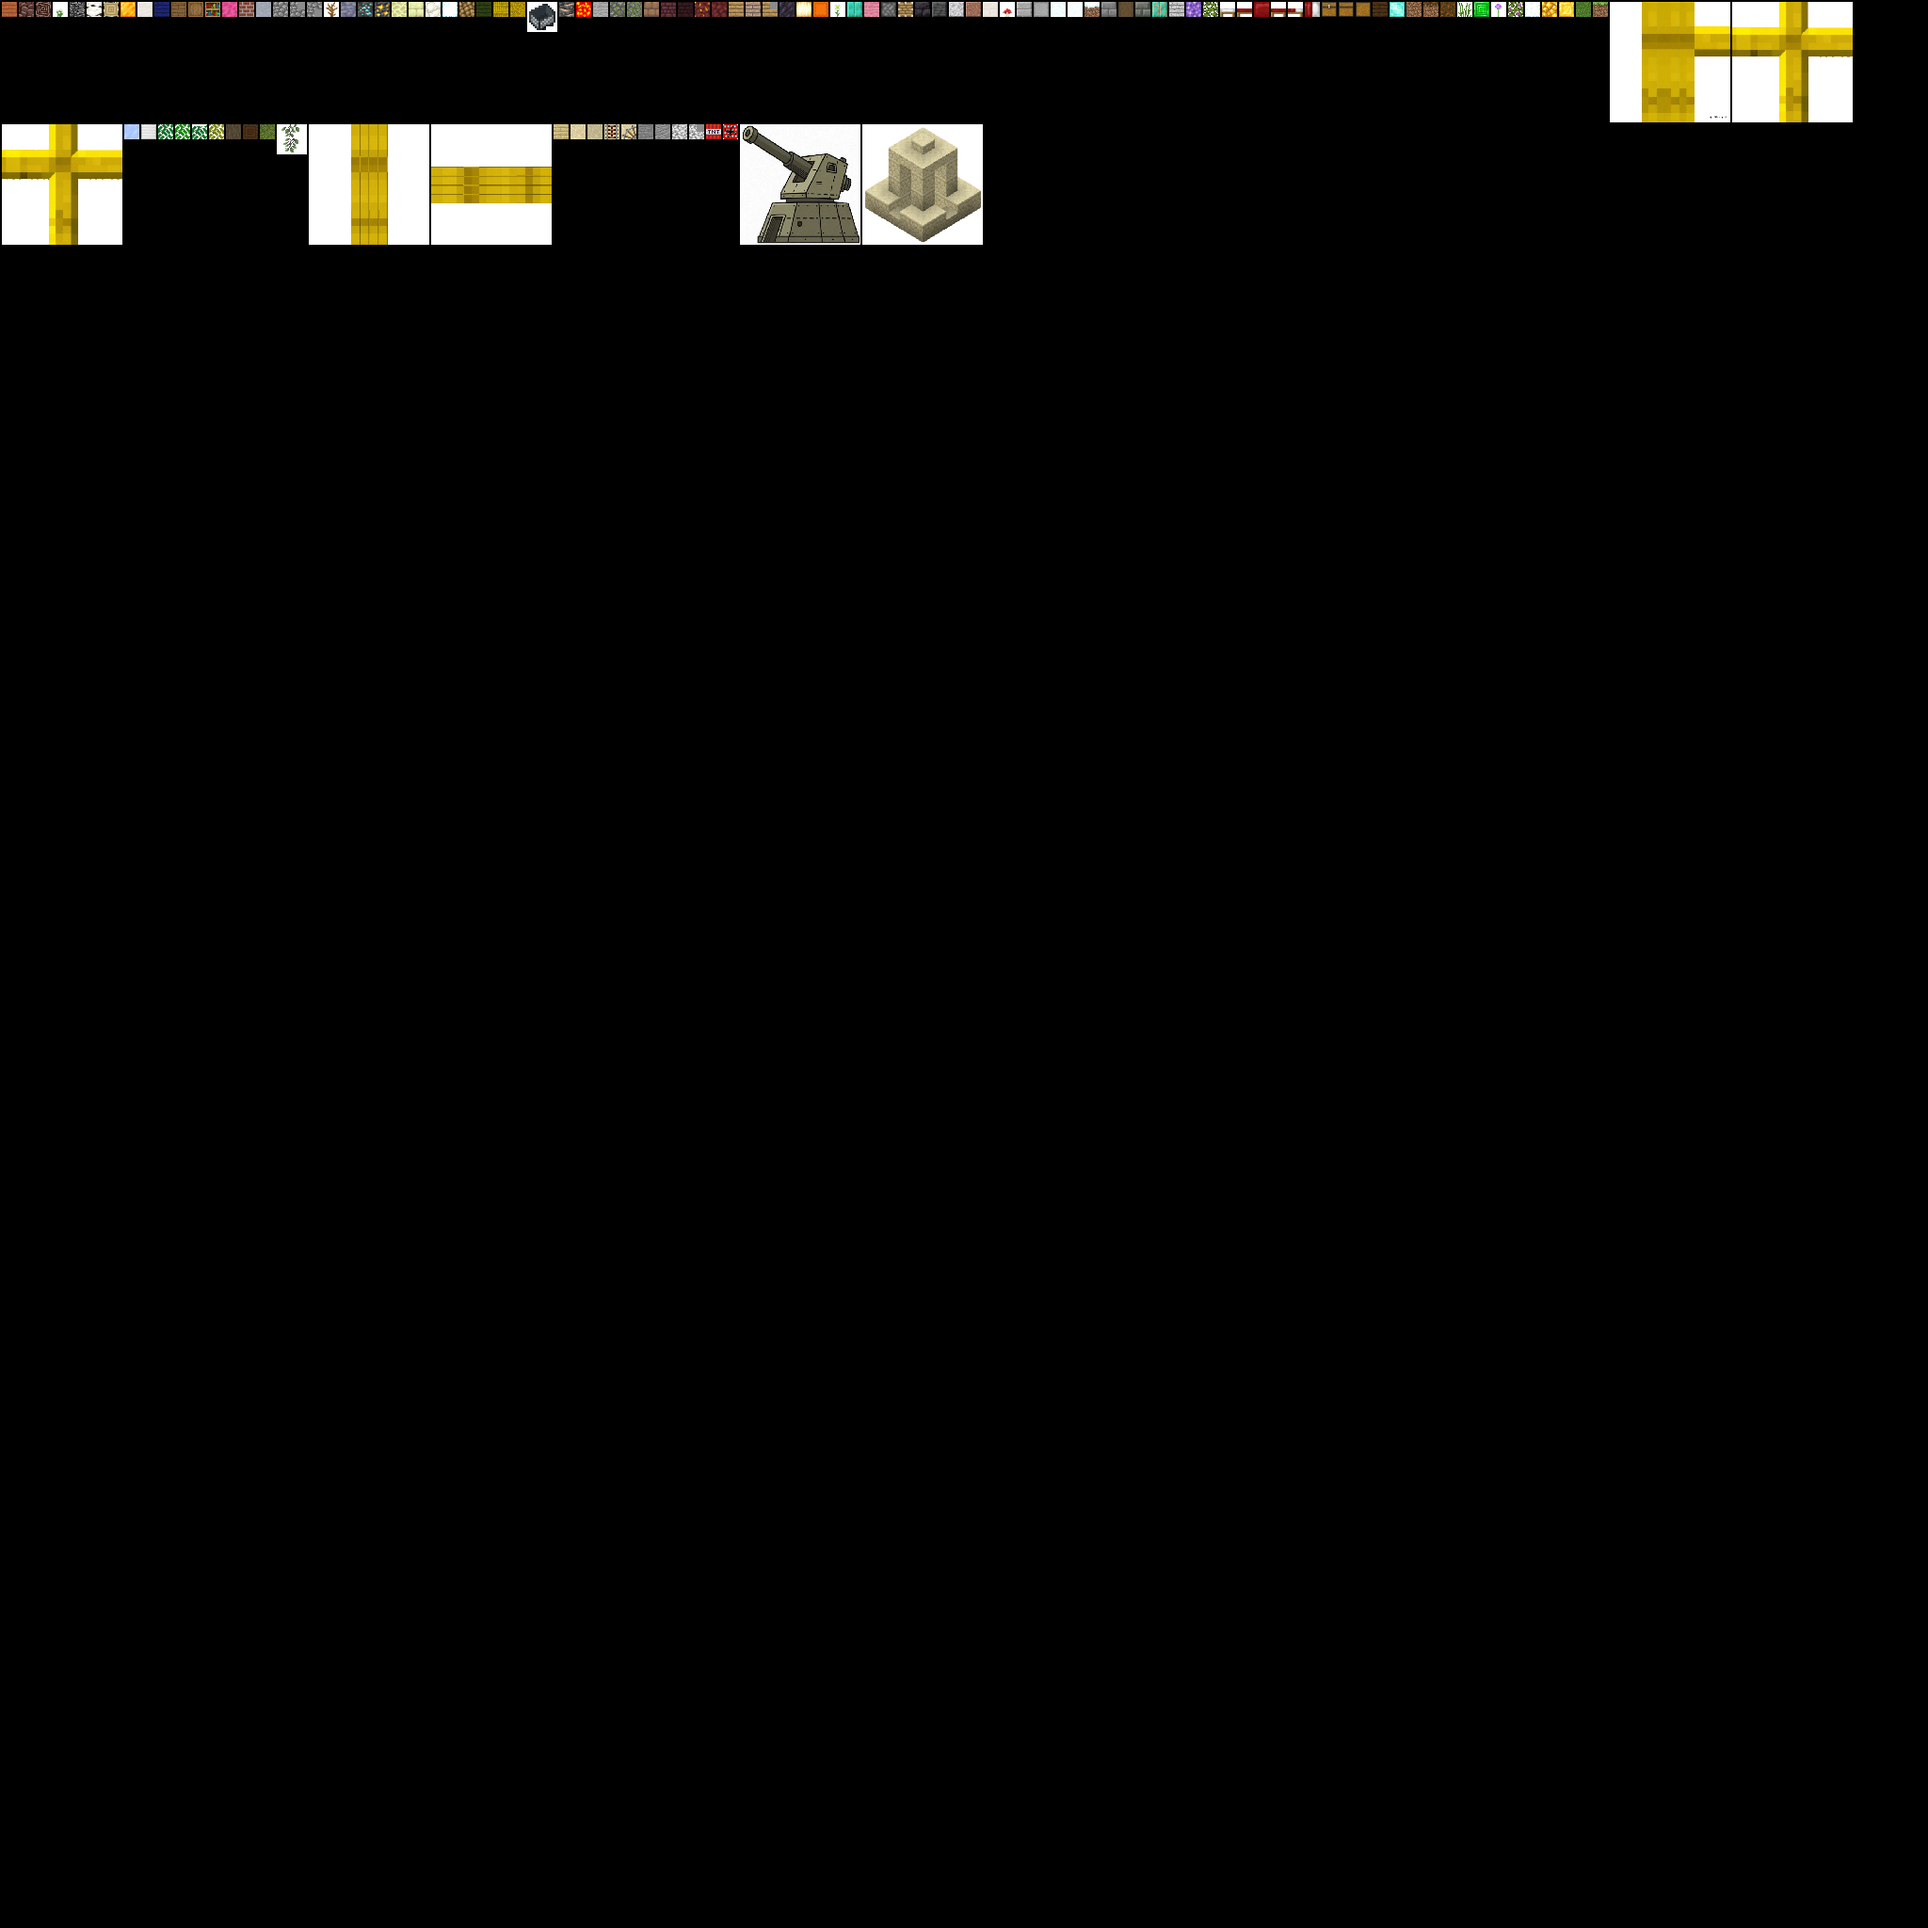
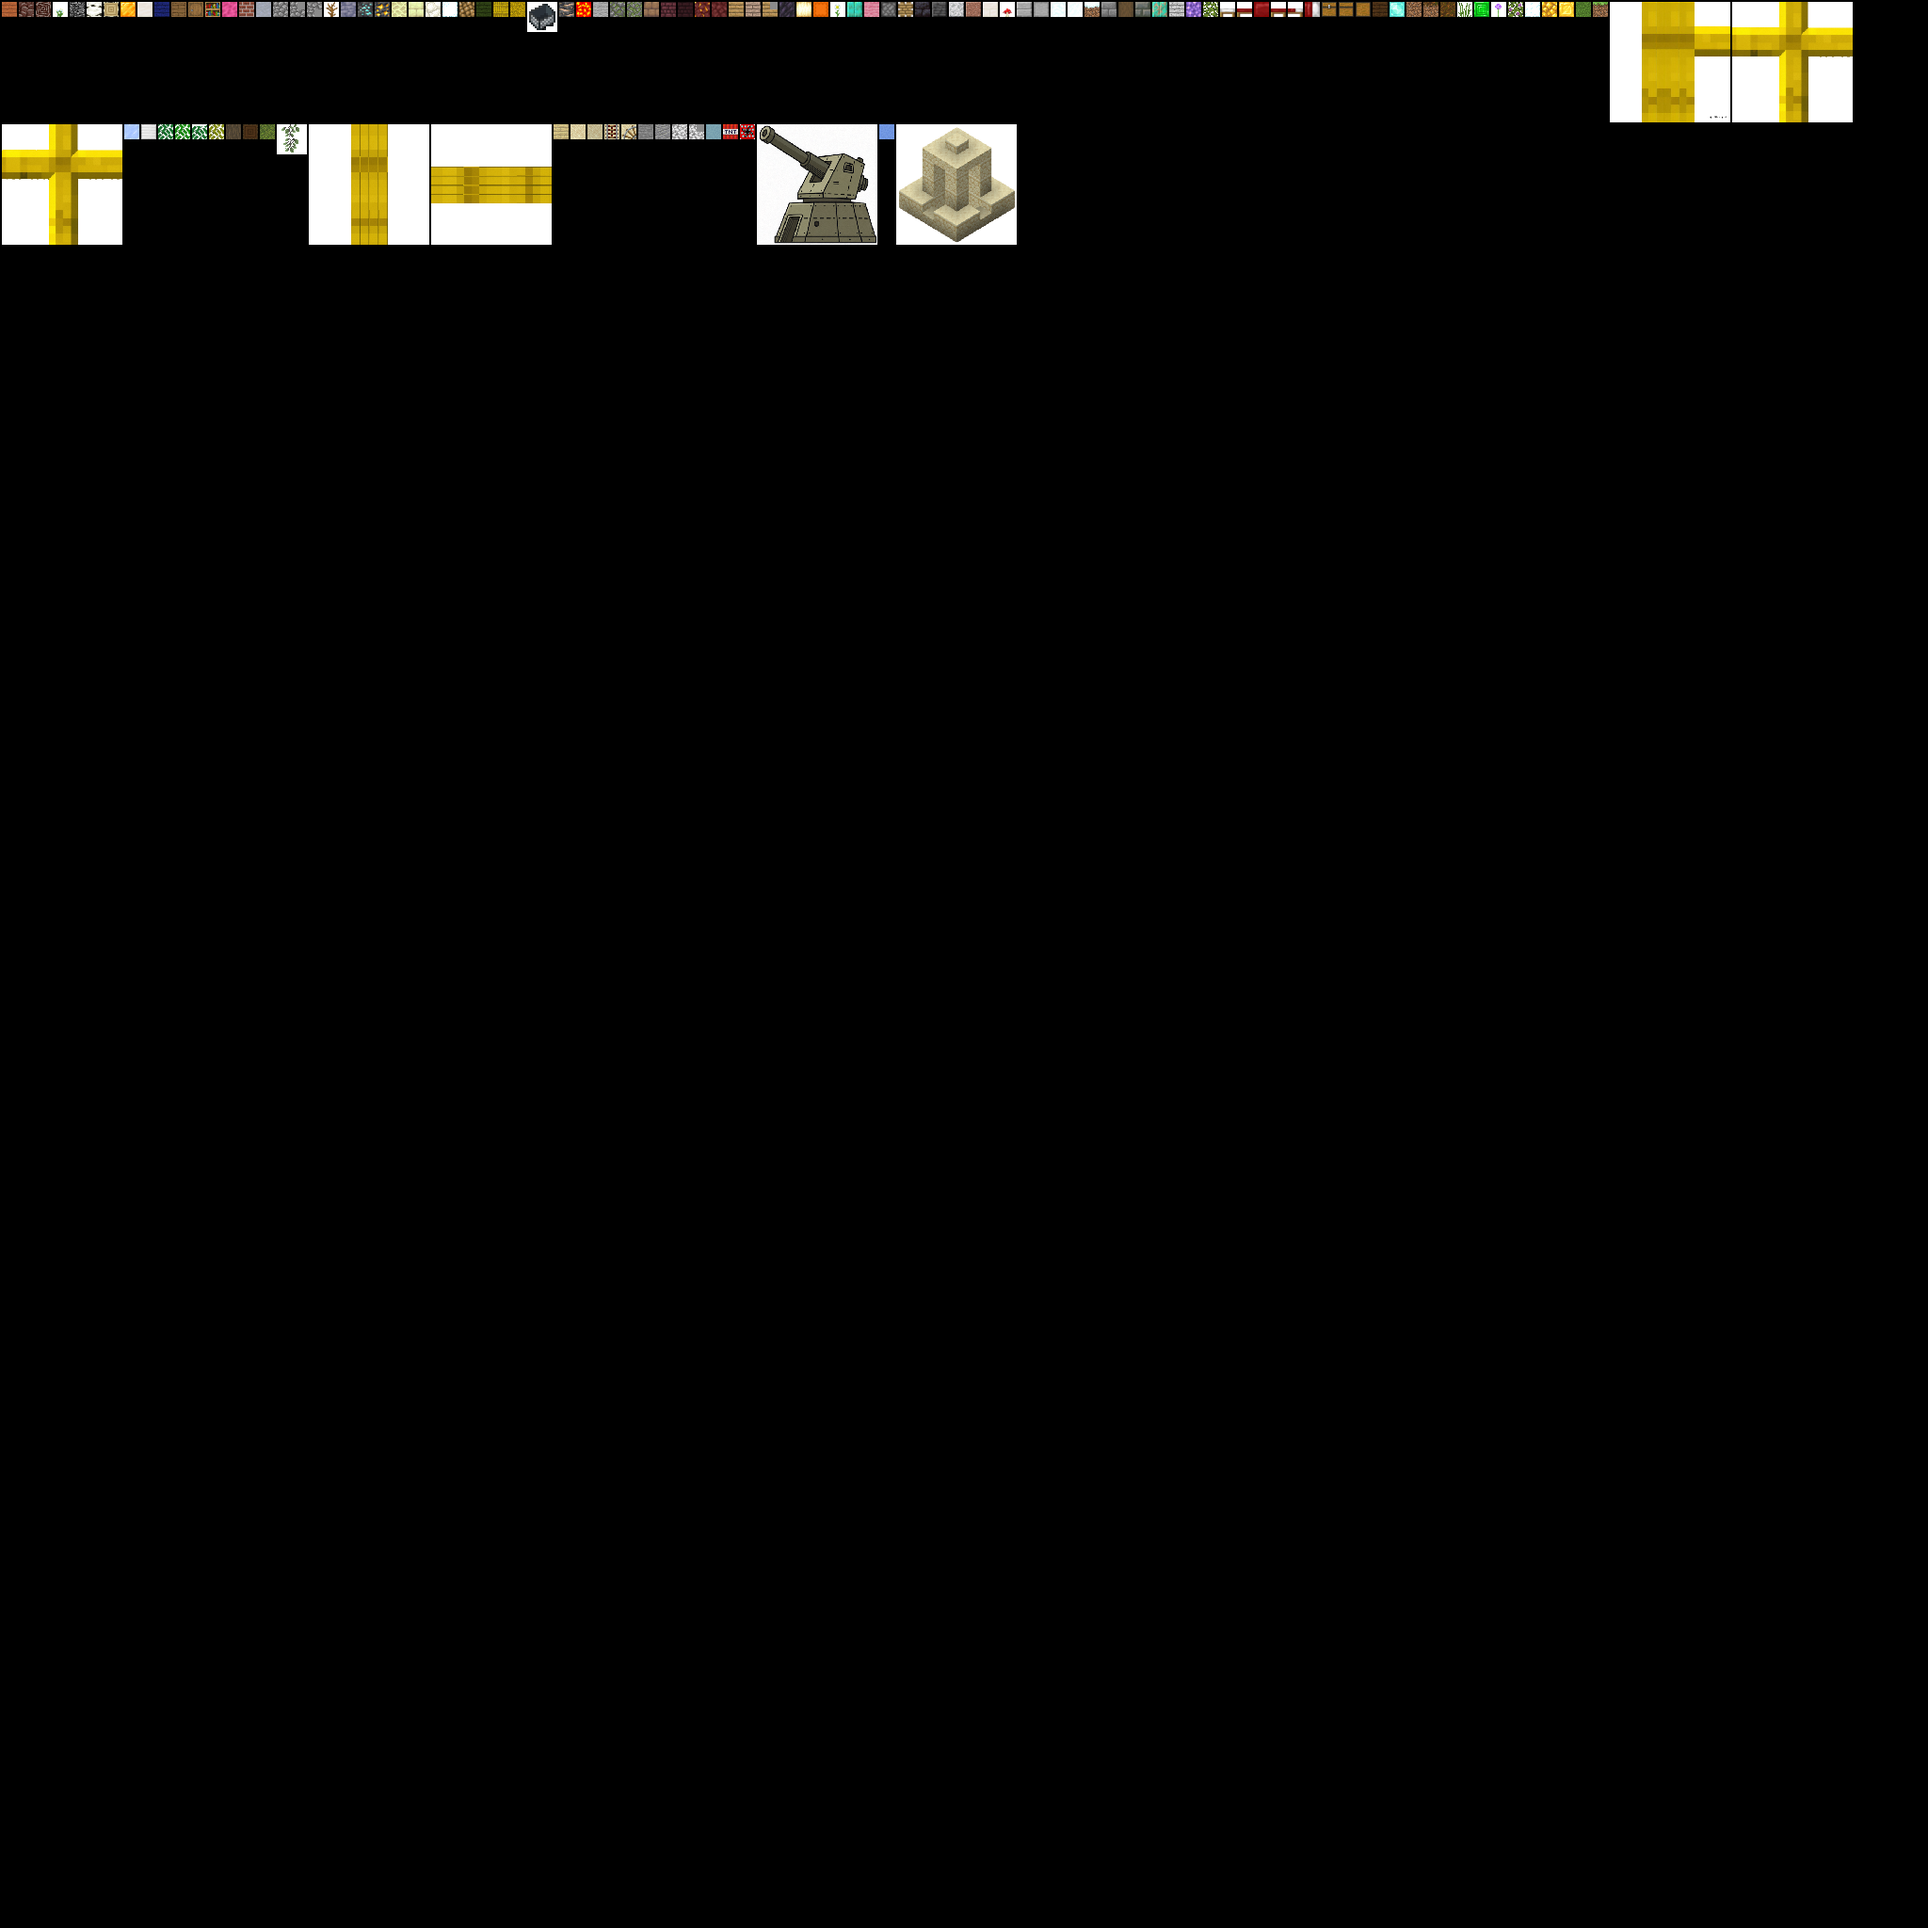
feat(render): M2-5 水面特效（TSL 海面 + 水纹理入 atlas）
- 海面：800×800 平面 + NodeMaterial（波浪动画/Blinn-Phong 太阳高光/Fresnel/
  距离淡出/水域遮罩/雾混合，逐行移植 mc-lite Engine.js 海面段）；跟随相机无限水面；
  高度 SEA_Y+0.5（mc-lite WATER_LEVEL_OFFSET 语义）
- 体素水：新增 water/swamp_water 半透明蓝纹理入 atlas（124 tiles），
  替换 M1 占位 water_placeholder（faces-data 注释指明的 M2 替换点）
- TSL r185 适配：tslCameraPosition → cameraPosition
- 测试：water-visual 验收 spec（海面蓝占比 0.42/跟随相机/y=-1.5/fps 120）；
  atlas spec 计数 122→124（水纹理为 M2 正当增量）

Changed region(s): [[0.375, 0.0625, 0.5312, 0.125]]

diff --git a/src/render/ocean.js b/src/render/ocean.js
@@ -1,0 +1,138 @@
+// src/render/ocean.js — 动画海面（M2-5，移植 mc-lite Engine.js 海面 TSL 材质）
+// 800×800 平面跟随相机（无限水面）；波浪动画 + Blinn-Phong 高光 + Fresnel + 距离淡出 + 水域遮罩。
+// 水面高度 = SEA_Y + 0.5（mc-lite WATER_LEVEL_OFFSET 语义）。
+import * as THREE from 'three';
+import {
+  uniform, Fn, float, vec3, sin, cos, max, pow, dot, normalize, length,
+  smoothstep, mix, positionWorld, cameraPosition, Discard,
+} from 'three/tsl';
+
+export const WATER_LEVEL_OFFSET = -1.5; // SEA_Y + 0.5
+const WATER_COLOR = 0x588be4;
+const WATER_OPACITY = 0.7;
+const WATER_VISIBLE_DISTANCE = 80;
+const WATER_EDGE_FADE_BAND = 15;
+const WATER_FOG_COLOR = 0xa7d1e2;
+
+/**
+ * 创建海面并挂到场景。
+ * @param {THREE.Scene} scene
+ * @returns {{update: (camera: THREE.Camera, dt: number) => void, plane: THREE.Mesh}}
+ */
+export function setupOcean(scene) {
+  const waterGeo = new THREE.PlaneGeometry(800, 800);
+
+  const uTime = uniform(0.0);
+  const uColor = uniform(new THREE.Color(WATER_COLOR));
+  const uSunDirection = uniform(new THREE.Vector3(0, 0.8, 0.6).normalize());
+  const uOpacity = uniform(WATER_OPACITY);
+  const uSeed = uniform(0.0);
+  const uFogColor = uniform(new THREE.Color(WATER_FOG_COLOR));
+  const uFogNear = uniform(20.0);
+  const uFogFar = uniform(70.0);
+
+  const fadeStart = WATER_VISIBLE_DISTANCE - WATER_EDGE_FADE_BAND;
+  const fadeEnd = WATER_VISIBLE_DISTANCE;
+
+  // 水面遮罩用的地形高度近似（与 mc-lite 着色器版噪声一致：0.08×2 + 0.02×6）
+  const getTerrainHeight = (x, z) => {
+    const nx = x.add(uSeed);
+    const nz = z.add(uSeed);
+    return sin(nx.mul(0.08)).mul(2.0)
+      .add(cos(nz.mul(0.08)).mul(2.0))
+      .add(sin(nx.mul(0.02)).mul(6.0))
+      .add(cos(nz.mul(0.02)).mul(6.0));
+  };
+
+  const colorNode = Fn(() => {
+    const pos = positionWorld.xz;
+    const dist = length(pos.sub(cameraPosition.xz));
+    const waterFade = float(1.0).sub(smoothstep(float(fadeStart), float(fadeEnd), dist));
+
+    // 远距离淡出裁剪
+    Discard(waterFade.lessThanEqual(0.001));
+
+    // 水域遮罩：近处仅在地形低于海平面附近显示，远处全显示
+    const h0 = getTerrainHeight(pos.x, pos.y);
+    const offsetVal = float(3.5);
+    const h1 = getTerrainHeight(pos.x.add(offsetVal), pos.y);
+    const h2 = getTerrainHeight(pos.x.sub(offsetVal), pos.y);
+    const h3 = getTerrainHeight(pos.x, pos.y.add(offsetVal));
+    const h4 = getTerrainHeight(pos.x, pos.y.sub(offsetVal));
+    const threshold = float(-0.8);
+    const nearOceanMask = max(
+      max(
+        max(
+          max(
+            float(1.0).sub(smoothstep(threshold.sub(0.01), threshold, h0)),
+            float(1.0).sub(smoothstep(threshold.sub(0.01), threshold, h1)),
+          ),
+          float(1.0).sub(smoothstep(threshold.sub(0.01), threshold, h2)),
+        ),
+        float(1.0).sub(smoothstep(threshold.sub(0.01), threshold, h3)),
+      ),
+      float(1.0).sub(smoothstep(threshold.sub(0.01), threshold, h4)),
+    );
+    const inRangeMask = smoothstep(float(100.0), float(99.0), dist);
+    const oceanMask = mix(float(1.0), nearOceanMask, inRangeMask);
+    Discard(oceanMask.lessThanEqual(0.001));
+
+    // LOD：远距离减少波纹计算
+    const detailMask = smoothstep(float(50.0), float(25.0), dist);
+
+    // 基础 + 细节波纹
+    let waves = sin(pos.x.mul(1.5).add(uTime.mul(5.5))).mul(0.1)
+      .add(sin(pos.y.mul(1.3).sub(uTime.mul(3.2))).mul(0.1));
+    waves = waves.add(
+      sin(pos.x.mul(2.8).add(pos.y.mul(2.2)).add(uTime.mul(3.5))).mul(0.08).mul(detailMask)
+        .add(sin(pos.x.mul(-2.1).add(pos.y.mul(3.7)).add(uTime.mul(2.8))).mul(0.06).mul(detailMask)),
+    );
+
+    const normal = normalize(vec3(waves.mul(2.0), 1.0, waves.mul(2.0)));
+    const viewDir = normalize(cameraPosition.sub(positionWorld));
+
+    // Blinn-Phong 太阳高光 + 漫反射/散射 + Fresnel
+    const halfDir = normalize(uSunDirection.add(viewDir));
+    const spec = pow(max(dot(normal, halfDir), 0.0), 100.0).mul(8.0).mul(detailMask);
+    const diffuse = max(dot(normal, uSunDirection), 0.0).mul(0.15).mul(detailMask);
+    const scatter = max(float(0.0), normal.y).mul(0.08).mul(detailMask);
+    const fresnel = pow(float(1.0).sub(max(dot(vec3(0, 1, 0), viewDir), 0.0)), 3.0);
+
+    const highlightColor = vec3(0.95, 0.98, 1.0);
+    const finalColor = uColor.add(highlightColor.mul(diffuse.add(scatter).add(spec).add(fresnel.mul(0.1))));
+
+    const depth = length(cameraPosition.sub(positionWorld));
+    const fogFactor = smoothstep(uFogNear, uFogFar, depth);
+    return mix(finalColor, uFogColor, fogFactor);
+  })();
+
+  const opacityNode = Fn(() => {
+    const pos = positionWorld.xz;
+    const dist = length(pos.sub(cameraPosition.xz));
+    const waterFade = float(1.0).sub(smoothstep(float(fadeStart), float(fadeEnd), dist));
+    return uOpacity.mul(waterFade);
+  })();
+
+  const waterMaterial = new THREE.NodeMaterial();
+  waterMaterial.colorNode = colorNode;
+  waterMaterial.opacityNode = opacityNode;
+  waterMaterial.transparent = true;
+  waterMaterial.depthWrite = false;
+  waterMaterial.side = THREE.DoubleSide;
+
+  const plane = new THREE.Mesh(waterGeo, waterMaterial);
+  plane.rotation.x = -Math.PI / 2;
+  plane.position.y = WATER_LEVEL_OFFSET;
+  scene.add(plane);
+
+  return {
+    plane,
+    /** 每帧：时间推进 + 跟随相机（无限水面） */
+    update(camera, dt) {
+      uTime.value += 0.015 * dt * 60;
+      plane.position.x = camera.position.x;
+      plane.position.z = camera.position.z;
+    },
+    setSeed(seed) { uSeed.value = seed; },
+  };
+}

diff --git a/src/core/game.js b/src/core/game.js
@@ -8,6 +8,7 @@ import { PerfMonitor } from './perf.js';
 import { PerfHUD } from './perf-hud.js';
 import { RenderWorld } from '../render/render-world.js';
 import { setupFog } from '../render/materials.js';
+import { setupOcean } from '../render/ocean.js';
 import { loadAtlas } from '../mesh/atlas-loader.js';
 import { findSpawnY } from '../gen/terrain.js';
 import { getCitySpawnPoint } from '../gen/structures/city-layout.js';
@@ -54,6 +55,7 @@ export class Game {
 
     this.scene.background = new THREE.Color(0x87ceeb);
     setupFog(this.scene, this.viewDistance);
+    this.ocean = setupOcean(this.scene);
     this.renderWorld = new RenderWorld({ scene: this.scene, atlasTexture: texture, viewDistance: this.viewDistance });
 
     // 存档：打开 IndexedDB、恢复 seed（edits 预热在出生点确定后，§4.8）
@@ -63,6 +65,7 @@ export class Game {
     const hadMeta = !!(meta && meta.seed !== undefined);
     if (hadMeta) this.seed = meta.seed;
     else await this.persistence.saveMeta({ seed: this.seed, spawn: [8, 8], savedAt: Date.now() });
+    this.ocean.setSeed(this.seed);
 
     this.scheduler = new Scheduler({
       world: this.world, pool: this.pool, registry: this.registry,
@@ -115,6 +118,7 @@ export class Game {
       this.player.update(dt);
       this.scheduler.update(this.player.physics.pos.x, this.player.physics.pos.z);
       this.persistence.scheduleFlush(this.world); // 5s 防抖写盘（有 edits 才真正写）
+      this.ocean.update(this.camera, dt);
       this._hud.update(nowMs);
       this.renderer.render(this.scene, this.camera);
     });

diff --git a/src/voxel/faces-data.js b/src/voxel/faces-data.js
@@ -22,8 +22,8 @@ export const FACES_DATA = {
   birch_log: ['Birch_Log_side', 'Birch_Log_side', 'Birch_Log_top', 'Birch_Log_top', 'Birch_Log_side', 'Birch_Log_side'],
   glass_block: 'Glass',
   glass_blink: 'glass_blink',
-  water: 'water_placeholder', // M1 占位（atlas 无此 tile，mesher 兜底 stone），M2 水面特效时替换
-  swamp_water: 'water_placeholder',
+  water: 'water',
+  swamp_water: 'swamp_water',
   leaves: 'leaves',
   azalea_leaves: 'azalea_leaves',
   yellow_leaves: 'leaves_yellow',

diff --git a/docs/superpowers/plans/2026-08-20-phase1-remaining-roadmap.md b/docs/superpowers/plans/2026-08-20-phase1-remaining-roadmap.md
@@ -162,15 +162,15 @@
 - `WATER_LEVEL_OFFSET`（海面高度）
 
 **实现要点：**
-- [ ] 海面：大平面 Mesh + TSL 材质（波浪动画 + 半透明 + 反射近似）
-- [ ] 海面跟随相机（无限水面效果）
-- [ ] 体素水：transparent 通道渲染（已有），优化水面与体素水交界
-- [ ] 水面高度 = SEA_Y + 0.5（mc-lite 语义）
+- [x] 海面：800×800 平面 + TSL NodeMaterial（波浪/Blinn-Phong 高光/Fresnel/距离淡出/水域遮罩，移植 mc-lite Engine.js）
+- [x] 海面跟随相机（无限水面）
+- [x] 体素水：transparent 通道 + 新增水纹理入 atlas（替换 M1 占位 water_placeholder）
+- [x] 水面高度 = SEA_Y + 0.5（WATER_LEVEL_OFFSET=-1.5，mc-lite 语义）
 
 **测试：**
-- [ ] 海面可见（截图有蓝色半透明区域）
-- [ ] 体素水与海面交界无明显接缝
-- [ ] 水面动画流畅（fps ≥90）
+- [x] 海面可见（water-visual spec ratio 0.42）
+- [x] 体素水与海面交界（同色族蓝，截图核验）
+- [x] 水面动画流畅（fps 120）
 
 ### Task M2-6: 日夜循环 + 三种视觉风格
 

diff --git a/README.md b/README.md
@@ -28,10 +28,10 @@ npm run atlas        # 重新生成 assets/atlas.png + atlas.json
 |---|---|---|
 | M0 骨架 | 脚手架 / Worker 池 RPC / Registry / atlas / WebGPU 发布路径实测 | ✅ 完成 |
 | M1 体素核心闭环 | 地形生成 / section meshing / BatchedMesh 合批 / 玩家物理交互 / 最小存档 / 光照 | ✅ 完成 |
-| M2 结构与世界完整性 | StructureIndex / 地标 / 树木 / 洞穴 / 水面 / 日夜 | 🔧 进行中（M2-1~M2-4 ✅） |
+| M2 结构与世界完整性 | StructureIndex / 地标 / 树木 / 洞穴 / 水面 / 日夜 | 🔧 进行中（M2-1~M2-5 ✅） |
 | M3 性能达标与收尾 | 视距 8 全量调优 / 预算标定 / 雨效 / HUD / 基线脚本 / 报告 | ⬜ 待开始 |
 
-测试现状：**16 个 Playwright spec（19 用例）+ 91 个浏览器内单元测试全绿**；冻结断言达标
+测试现状：**17 个 Playwright spec（20 用例）+ 91 个浏览器内单元测试全绿**；冻结断言达标
 （120Hz 本机 fps ≥115、放/挖编辑 p95 <2ms、draw 受控）。
 
 ## 文档索引
